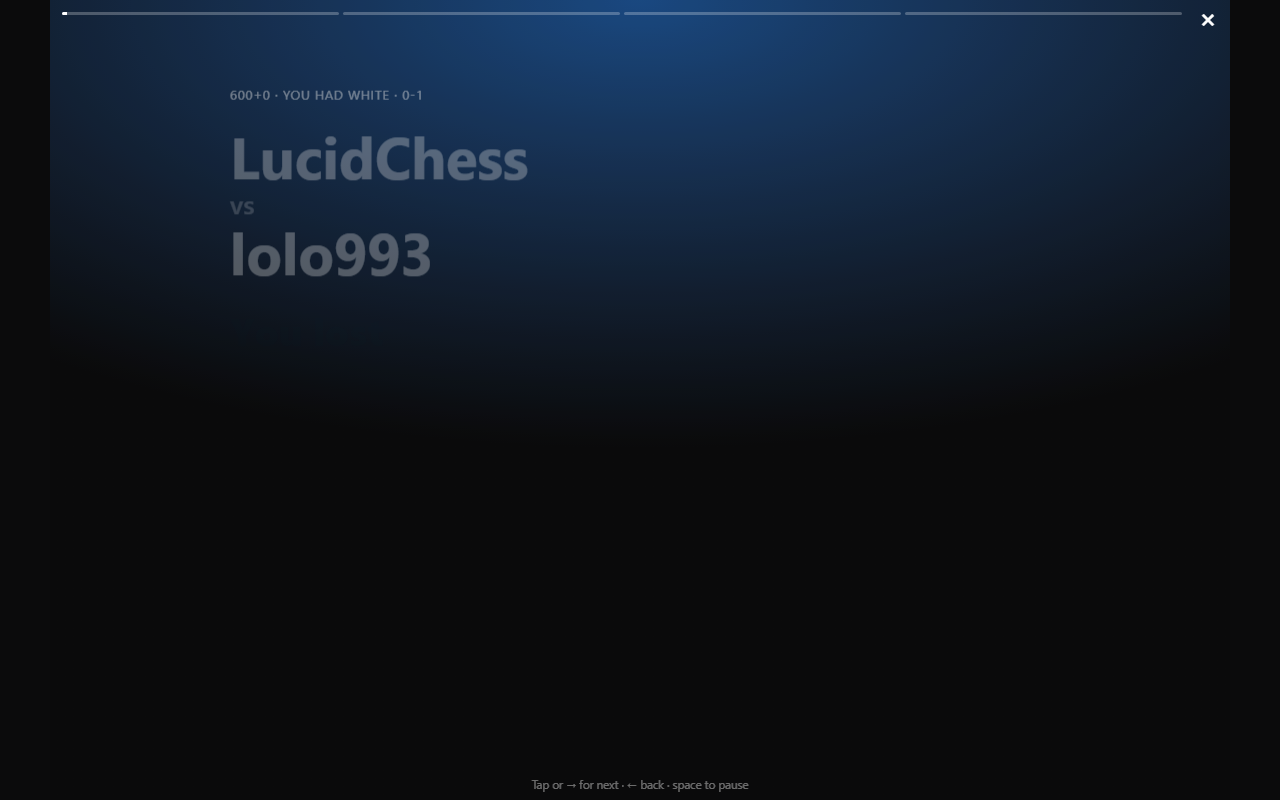
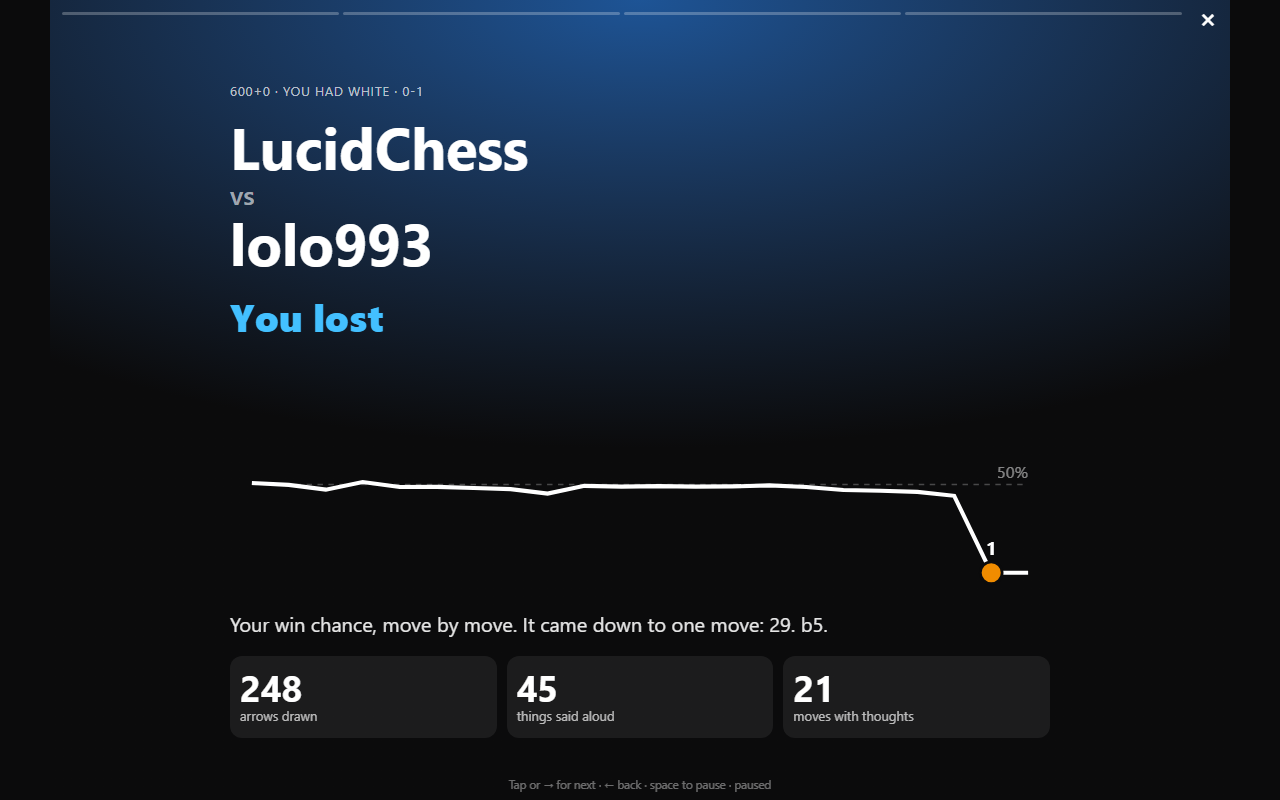
Link the source, fix stale review pages after a re-review, reuse saved transcripts
- Review pages are uploaded with Cache-Control: no-cache so the CDN serves a
  re-reviewed game at once.
- Re-reviewing a game whose audio was removed uses its saved transcript.
- Site, privacy page and store listing link to the GitHub repo.

diff --git a/deploy/site/index.html b/deploy/site/index.html
@@ -41,7 +41,7 @@
     account (we hand the sign-in back to lichess straight away). Voice recordings are deleted once they are
     transcribed. Your review pages aren't listed anywhere, but anyone you give a link to can open them.</p>
 
-  <footer>Thought Coach · open source · engine: Stockfish · <a href="/privacy">Privacy</a> · not affiliated with lichess.org</footer>
+  <footer>Thought Coach · <a href="https://github.com/GrantRedfield/thought-coach">open source</a> · engine: Stockfish · <a href="/privacy">Privacy</a> · not affiliated with lichess.org</footer>
 </main>
 <button class="theme-toggle" type="button" aria-label="Switch light or dark" title="Light / dark"
   onclick="var r=document.documentElement, t=r.dataset.theme==='light'?'dark':'light'; r.dataset.theme=t; try{localStorage.setItem('tc-theme',t)}catch(e){}">&#9680;</button>

diff --git a/deploy/site/privacy/index.html b/deploy/site/privacy/index.html
@@ -55,7 +55,7 @@
     pages are deleted straight away. Uninstalling the extension deletes everything it keeps in your browser.</p>
 
   <h2>Open source</h2>
-  <p>The extension and the server are open source, so you can check every line of what they do.</p>
+  <p>The extension and the server are open source, so you can check every line of what they do: <a href="https://github.com/GrantRedfield/thought-coach">https://github.com/GrantRedfield/thought-coach</a>.</p>
   <footer>Thought Coach · not affiliated with lichess.org</footer>
 </main>
 </body>

diff --git a/deploy/site/start/index.html b/deploy/site/start/index.html
@@ -47,7 +47,7 @@
           <li>Come back here: this step ticks itself off (or <a href="#" id="recheck">check again</a>).</li>
         </ol>
         <p class="muted" id="dev-note"><small>Developer mode is only needed until Thought Coach is listed in the Chrome Web Store.
-          The extension is open source: you can read every line it runs.</small></p>
+          The extension is <a href="https://github.com/GrantRedfield/thought-coach">open source</a>: you can read every line it runs.</small></p>
         </details>
       </div>
     </li>

diff --git a/thoughtcoach/worker.py b/thoughtcoach/worker.py
@@ -59,10 +59,10 @@ def _sync_saved(s3, data: str, user: str, out: Path) -> None:
 
 def _publish(s3, data: str, site: str, user: str, gid: str, out: Path, games: Path) -> None:
     html = {"html": "text/html; charset=utf-8"}
-    s3.upload_file(str(out / f"{gid}.html"), site, f"u/{user}/games/{gid}/index.html",
-                   ExtraArgs={"ContentType": html["html"]})
-    s3.upload_file(str(out / f"{gid}.story.html"), site, f"u/{user}/games/{gid}/story/index.html",
-                   ExtraArgs={"ContentType": html["html"]})
+    # no-cache: the CDN checks for a newer copy each time, so a game reviewed again shows at once.
+    page = {"ContentType": html["html"], "CacheControl": "no-cache"}
+    s3.upload_file(str(out / f"{gid}.html"), site, f"u/{user}/games/{gid}/index.html", ExtraArgs=page)
+    s3.upload_file(str(out / f"{gid}.story.html"), site, f"u/{user}/games/{gid}/story/index.html", ExtraArgs=page)
     for suffix in SAVED:
         path = out / f"{gid}{suffix}"
         if path.exists():

diff --git a/deploy/store/LISTING.md b/deploy/store/LISTING.md
@@ -28,6 +28,8 @@ Fair play: the extension only reads the board. It shows nothing, adds nothing to
 
 Privacy: signing in only tells us your lichess username. Voice recordings are deleted once they are transcribed. No ads, no tracking, and you can delete your data at any time. Free and open source.
 
+Source code: https://github.com/GrantRedfield/thought-coach
+
 Not affiliated with lichess.org.
 
 **Category:** Productivity → Education (or "Education" if offered at the top level)
